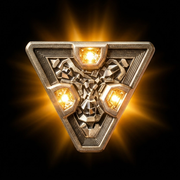
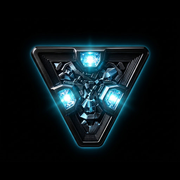
Icône : version bleue, plus sobre
Claude-Session: https://claude.ai/code/session_01LU6LqkYtmyTHYn2ufAZ1V5

diff --git a/index.html b/index.html
@@ -8,8 +8,8 @@
 <meta name="apple-mobile-web-app-status-bar-style" content="default">
 <meta name="theme-color" content="#F2F2F7">
 <link rel="manifest" href="manifest.webmanifest">
-<link rel="apple-touch-icon" href="icons/icon-180.png?v=2">
-<link rel="icon" type="image/png" href="icons/icon-192.png?v=2">
+<link rel="apple-touch-icon" href="icons/icon-180.png?v=3">
+<link rel="icon" type="image/png" href="icons/icon-192.png?v=3">
 <link rel="stylesheet" href="css/app.css" id="feuille">
 <title>La Vision</title>
 <!-- Lecture des classeurs Excel (même version que l'app d'origine du lecteur) -->
